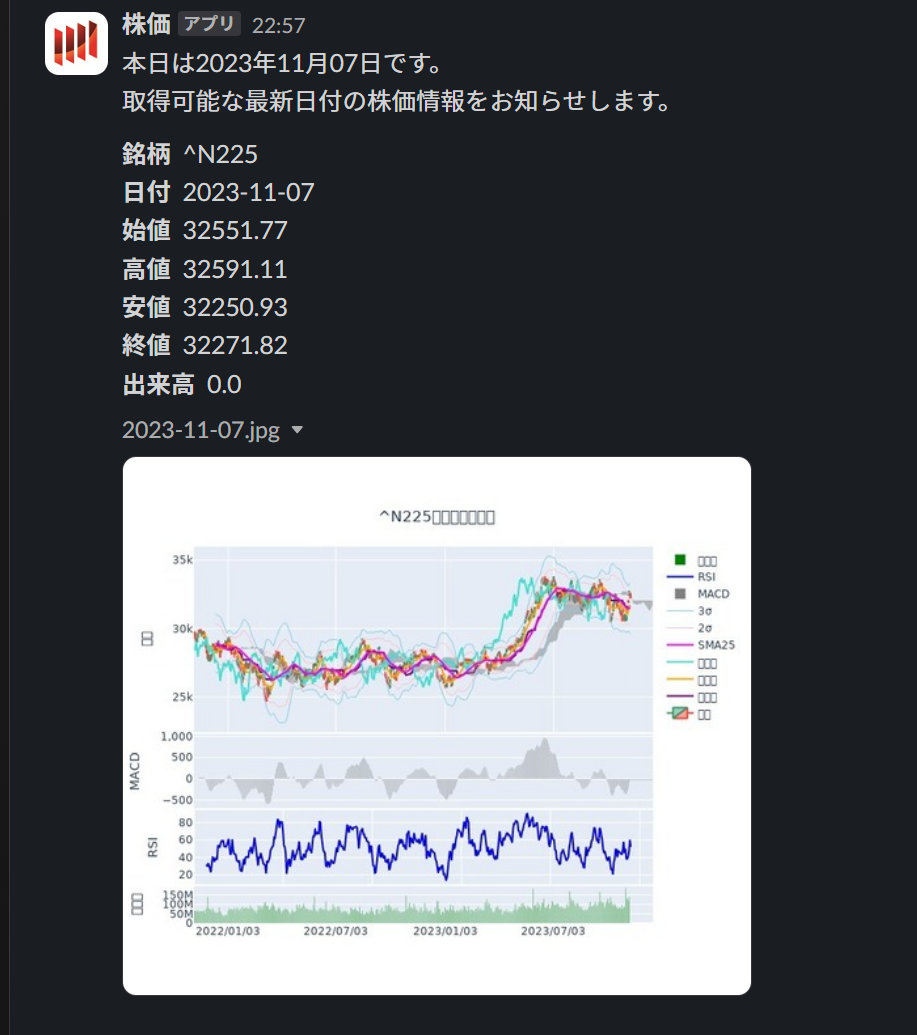
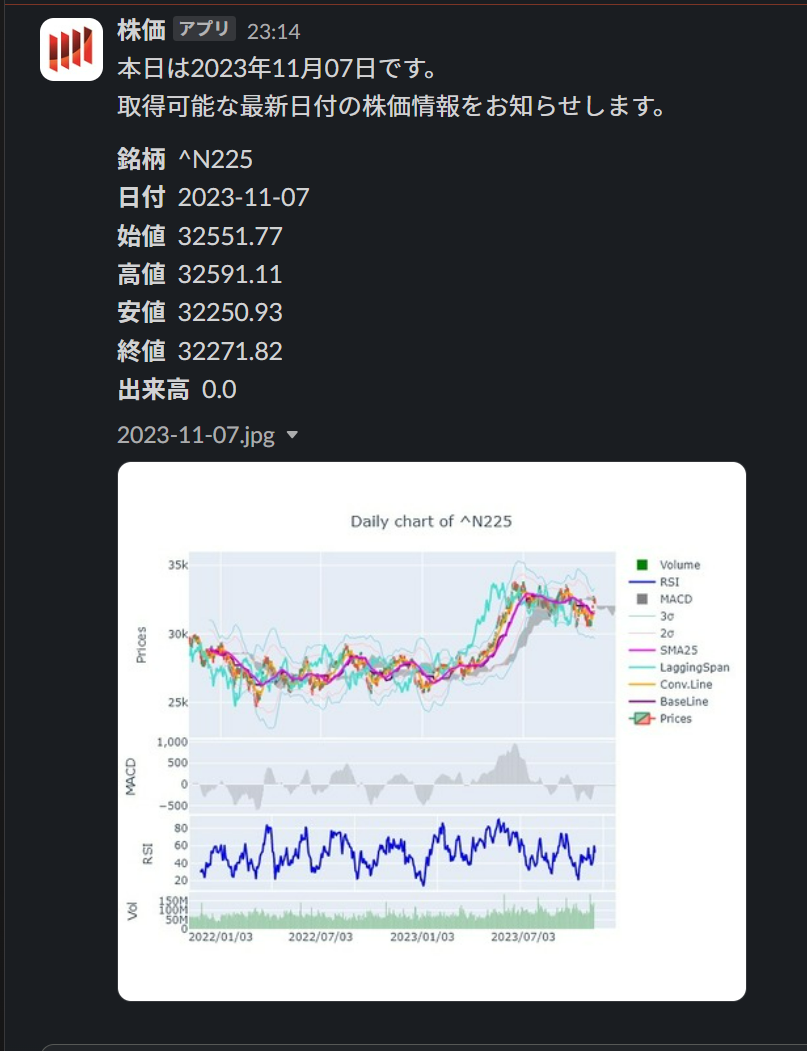
Add files via upload

Changed region(s): [[0.0, 0.0, 0.9294, 0.9894], [0.4337, 0.4947, 0.5576, 0.5256], [0.5886, 0.4947, 0.6196, 0.5256]]

diff --git a/handler.py b/handler.py
@@ -253,16 +253,16 @@ def generate_stock_chart_image(df, d_breaks):
 
     # ローソク足：Candlestick
     fig.add_trace(
-        go.Candlestick(x=dataframe["datetime"], open=dataframe["open"], high=dataframe["high"], low=dataframe["low"], close=dataframe["close"], name="株価"),
+        go.Candlestick(x=dataframe["datetime"], open=dataframe["open"], high=dataframe["high"], low=dataframe["low"], close=dataframe["close"], name="Prices"),
         row=1, col=1
     )
 
     # 一目均衡表
-    fig.add_trace(go.Scatter(x=dataframe["datetime"], y=dataframe["base_line"], name="基準線", mode="lines", line=dict(color="purple")), row=1, col=1)
-    fig.add_trace(go.Scatter(x=dataframe["datetime"], y=dataframe["conversion_line"], name="転換線", mode="lines", line=dict(color="orange")), row=1, col=1)
-    fig.add_trace(go.Scatter(x=dataframe["datetime"], y=dataframe["leading_span1"], name="先行スパン1", mode="lines", fill=None, line=dict(width=0, color="gray"), showlegend=False), row=1, col=1)
-    fig.add_trace(go.Scatter(x=dataframe["datetime"], y=dataframe["leading_span2"], name="先行スパン2", mode="lines", fill='tonexty', line=dict(width=0, color="gray"), showlegend=False), row=1, col=1)
-    fig.add_trace(go.Scatter(x=dataframe["datetime"], y=dataframe["lagging_span"], name="遅行線", mode="lines", line=dict(color="turquoise")), row=1, col=1)
+    fig.add_trace(go.Scatter(x=dataframe["datetime"], y=dataframe["base_line"], name="BaseLine", mode="lines", line=dict(color="purple")), row=1, col=1)
+    fig.add_trace(go.Scatter(x=dataframe["datetime"], y=dataframe["conversion_line"], name="Conv.Line", mode="lines", line=dict(color="orange")), row=1, col=1)
+    fig.add_trace(go.Scatter(x=dataframe["datetime"], y=dataframe["leading_span1"], name="AdvanceSpan1", mode="lines", fill=None, line=dict(width=0, color="gray"), showlegend=False), row=1, col=1)
+    fig.add_trace(go.Scatter(x=dataframe["datetime"], y=dataframe["leading_span2"], name="AdvanceSpan2", mode="lines", fill='tonexty', line=dict(width=0, color="gray"), showlegend=False), row=1, col=1)
+    fig.add_trace(go.Scatter(x=dataframe["datetime"], y=dataframe["lagging_span"], name="LaggingSpan", mode="lines", line=dict(color="turquoise")), row=1, col=1)
 
     # SMA
     fig.add_trace(go.Scatter(x=dataframe["datetime"], y=dataframe["SMA25"], name="SMA25", mode="lines", line=dict(color="magenta")), row=1, col=1)
@@ -313,14 +313,14 @@ def generate_stock_chart_image(df, d_breaks):
 
     # 出来高
     fig.add_trace(
-        go.Bar(x=dataframe["datetime"], y=dataframe["volume"], name="出来高", marker_color="green"),
+        go.Bar(x=dataframe["datetime"], y=dataframe["volume"], name="Volume", marker_color="green"),
         row=4, col=1
     )
 
     # Layout
     fig.update_layout(
         title={
-            "text": f"{stock_code}の日足チャート",
+            "text": f"Daily chart of {stock_code}",
             "y":0.9,
             "x":0.5,
         },
@@ -328,10 +328,10 @@ def generate_stock_chart_image(df, d_breaks):
     )
 
     # y軸名を定義
-    fig.update_yaxes(title_text="株価", row=1, col=1, separatethousands=True)
+    fig.update_yaxes(title_text="Prices", row=1, col=1, separatethousands=True)
     fig.update_yaxes(title_text="MACD", row=2, col=1, separatethousands=True)
     fig.update_yaxes(title_text="RSI", row=3, col=1, separatethousands=True)
-    fig.update_yaxes(title_text="出来高", row=4, col=1, separatethousands=True)
+    fig.update_yaxes(title_text="Vol", row=4, col=1, separatethousands=True)
 
     # 不要な日付を非表示にする
     fig.update_xaxes(
